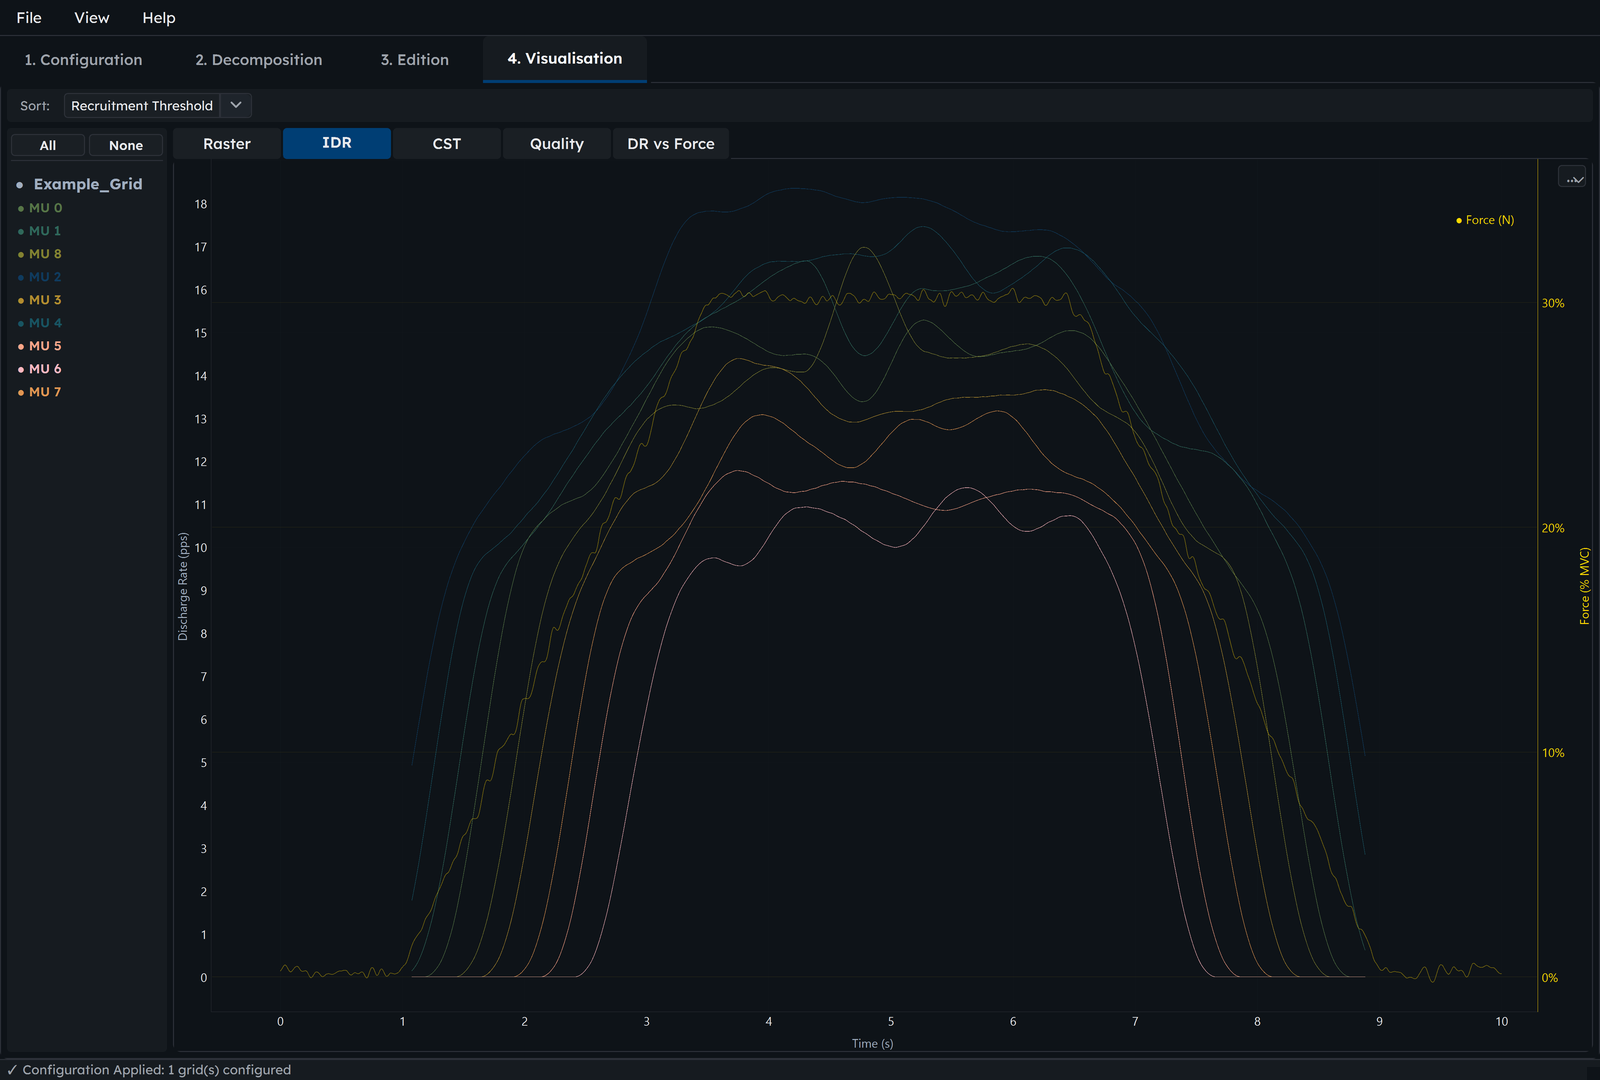
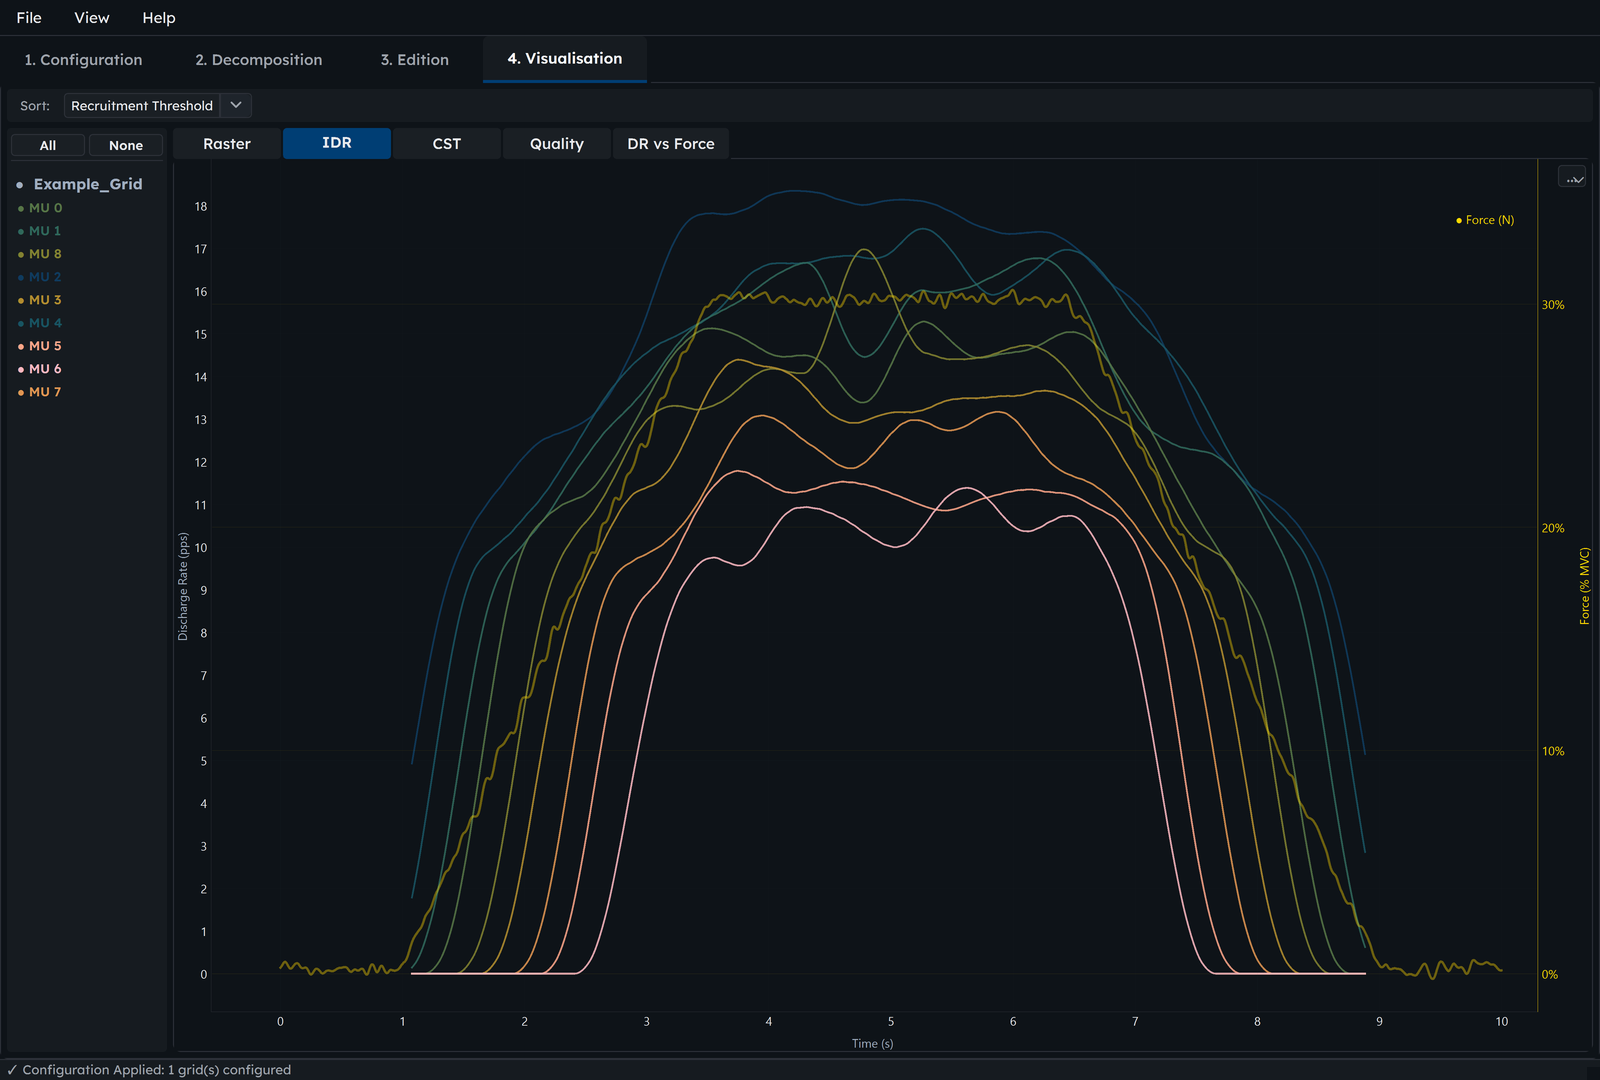
feat: updated screenshot

diff --git a/scripts/capture_demo.py b/scripts/capture_demo.py
@@ -35,7 +35,7 @@ import numpy as np
 import torch
 from PIL import Image, ImageColor, ImageDraw, ImageFont
 from PySide6.QtCore import QPoint, QPointF, Qt
-from PySide6.QtGui import QImage
+from PySide6.QtGui import QImage, QPen
 from PySide6.QtTest import QTest
 from PySide6.QtWidgets import QApplication, QSplitter, QWidget
 from scd.models.timestamping import spike_triggered_average
@@ -105,8 +105,9 @@ SCREENSHOTS = {
     "configuration": "config",
     "decomposition": "decomp_3",
     "edition": "edit_split_preview",
-    "visualisation": "vis_idr",
+    "visualisation": "vis_idr_screenshot",
 }
+SCREENSHOT_LINE_SCALE = 3.5  # IDR and force traces in the visualisation screenshot
 
 Rect = tuple[float, float, float, float]
 
@@ -445,6 +446,14 @@ def _set_sidebar_width(tab: QWidget, width: int) -> None:
             return
 
 
+def _thicken_curves(plot, factor: float) -> None:
+    """Widen every curve of a plot, which stays so until it is re-rendered."""
+    for item in plot.listDataItems():
+        pen = QPen(item.opts["pen"])
+        pen.setWidthF(pen.widthF() * factor)
+        item.setPen(pen)
+
+
 def _edition_marks(window: MainWindow) -> dict[str, tuple[float, ...]]:
     edition = window.edition_tab
     quality = edition.quality_bar
@@ -612,6 +621,9 @@ def capture_shots() -> dict[str, Shot]:
                 "idr_tab": _tab_rect(window, tab_bar, 1),
             },
         )
+    # The README screenshot alone gets thicker traces, legible at full width.
+    _thicken_curves(vis._idr_plot, SCREENSHOT_LINE_SCALE)
+    shots["vis_idr_screenshot"] = Shot(_grab(window))
 
     edition._undo_stack.clear()
     edition._set_dirty(False)
